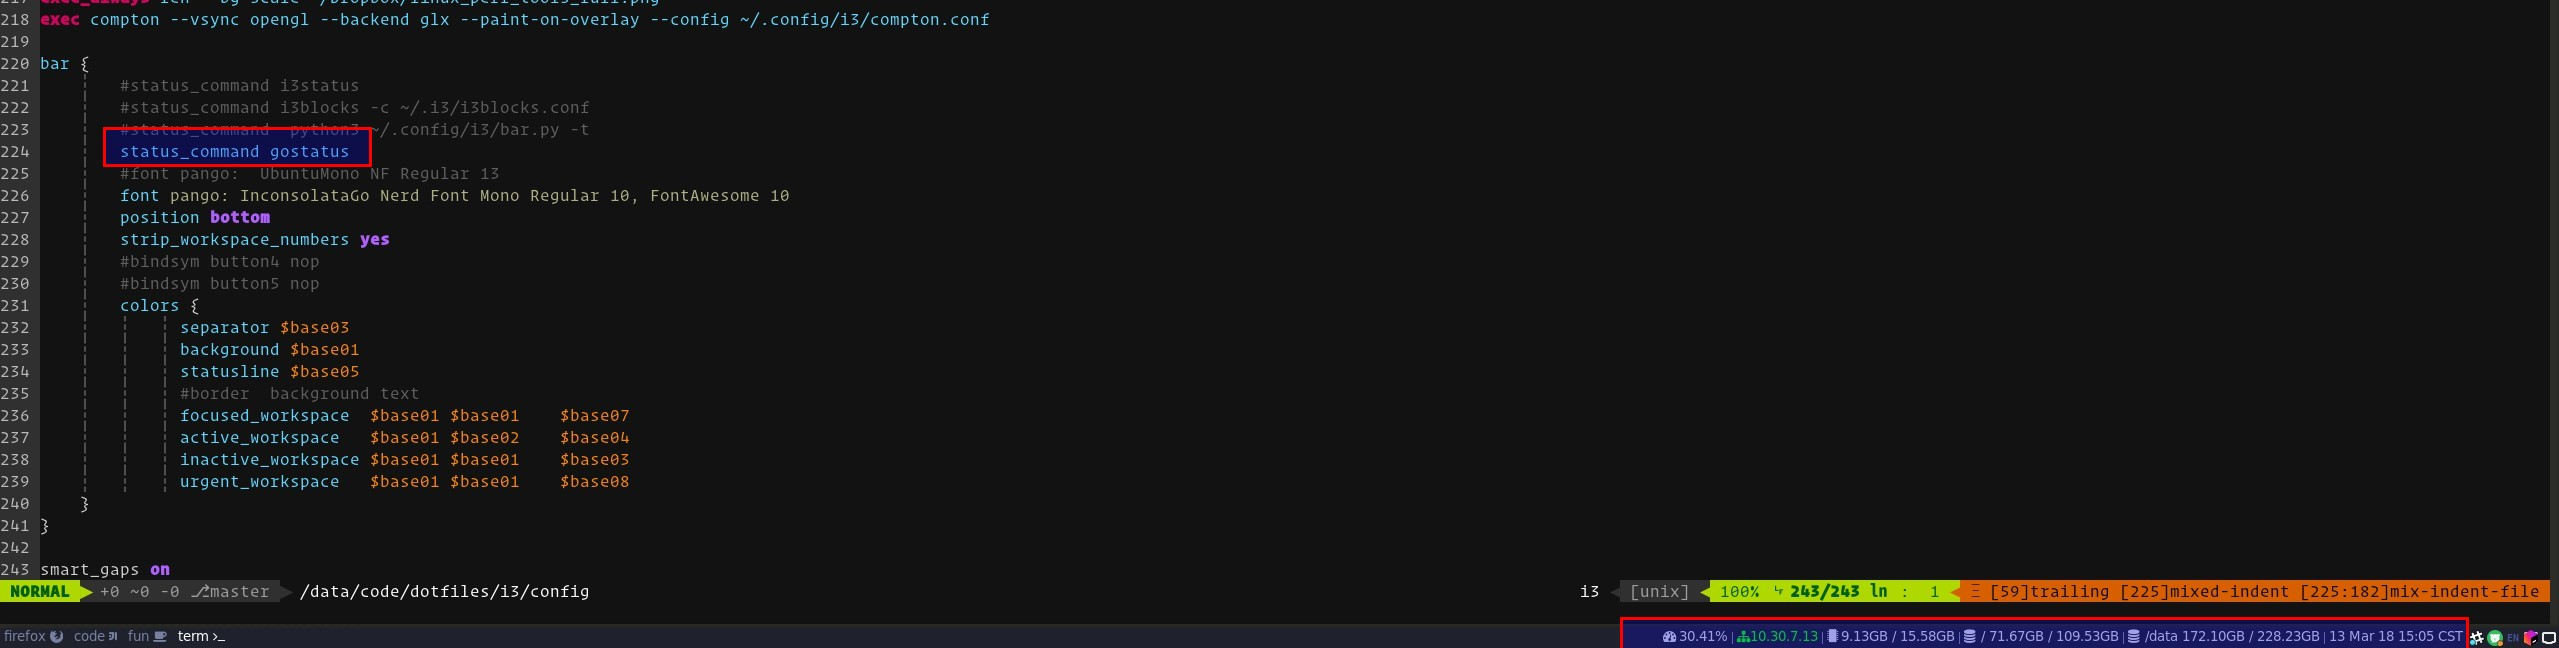
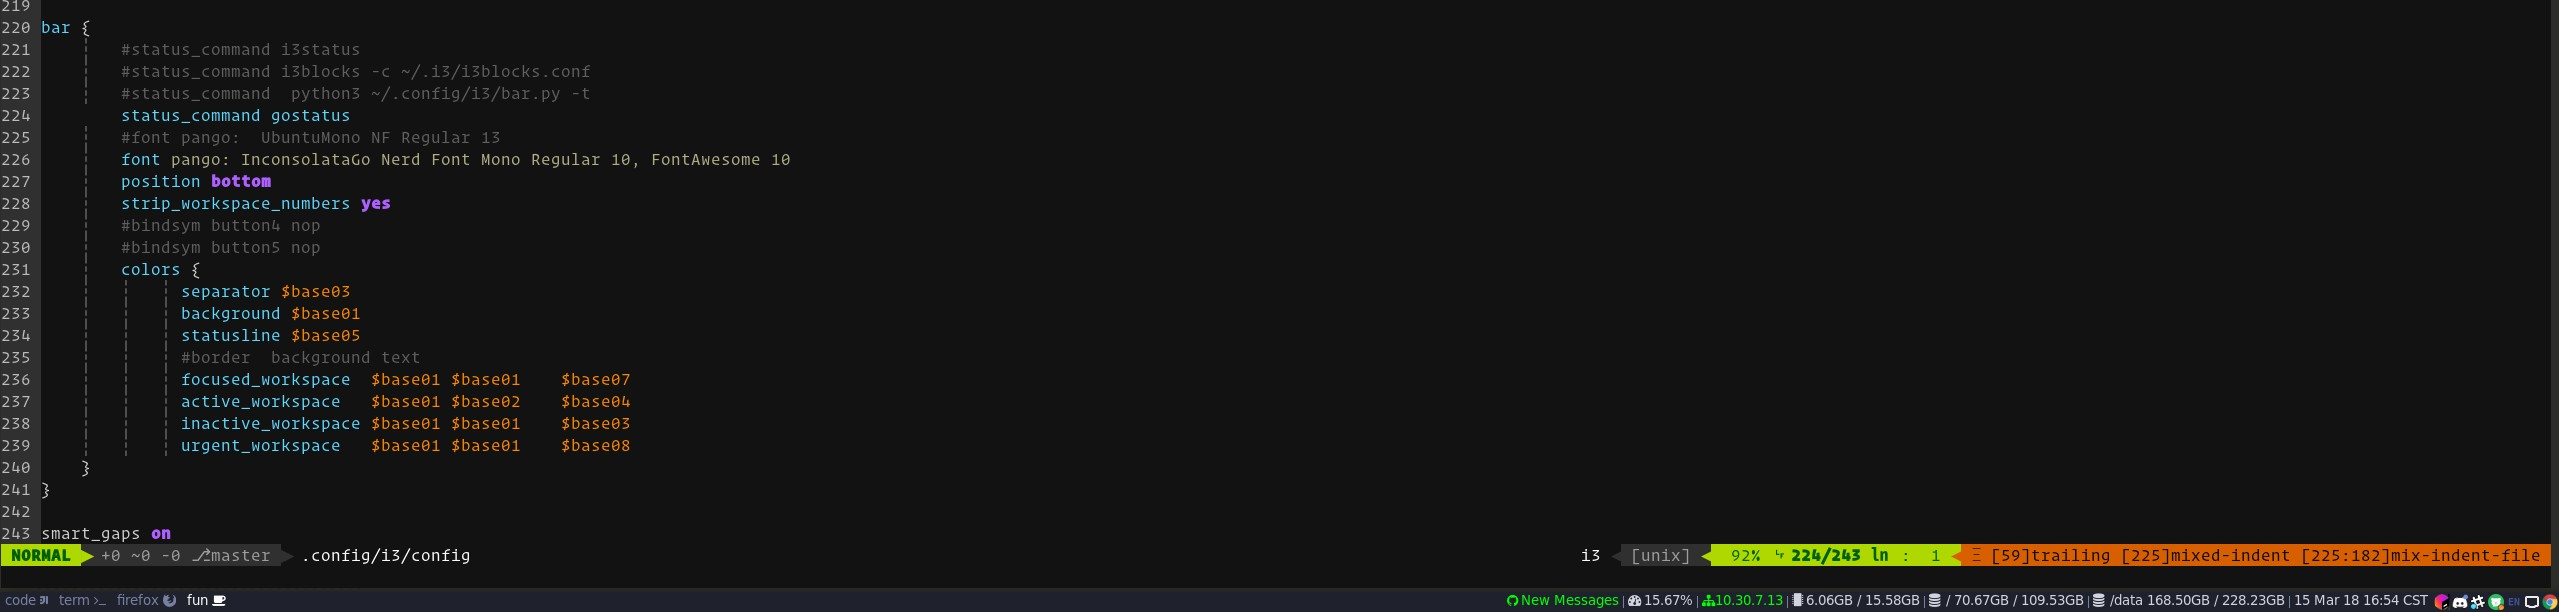
add github notifications

diff --git a/addon/github.go b/addon/github.go
@@ -1,0 +1,78 @@
+package addon
+
+import (
+	"encoding/base64"
+	"fmt"
+	"io/ioutil"
+	"net/http"
+	"os"
+	"regexp"
+)
+
+var client = &http.Client{}
+var githubNotificationsURL = "https://api.github.com/notifications"
+var gitAuthRegex = `https\://([a-zA-Z0-9]+)\:x\-oauth\-basic@github\.com`
+
+// ReadGithubToken reads github personal access token from ~/.git-credentianls
+// https://git-scm.com/docs/git-credential-store#_storage_format
+func ReadGithubToken() string {
+	bs, err := ioutil.ReadFile(fmt.Sprintf("%s/.git-credentials", os.Getenv("HOME")))
+	if err != nil {
+		panic(err)
+	}
+
+	re, err := regexp.Compile(gitAuthRegex)
+	if err != nil {
+		panic(err)
+	}
+	result := re.FindStringSubmatch(string(bs))
+	if len(result) == 0 {
+		return ""
+	}
+	return result[1]
+}
+
+func basicAuth(username, password string) string {
+	auth := username + ":" + password
+	return base64.StdEncoding.EncodeToString([]byte(auth))
+}
+
+func GotNewNotifications(username string) bool {
+	token := ReadGithubToken()
+	if token == "" {
+		return false
+	}
+
+	request, err := http.NewRequest("GET", githubNotificationsURL, nil)
+	if err != nil {
+		panic(err)
+	}
+	request.Header.Add("Authorization", "Basic "+basicAuth(username, token))
+	response, err := client.Do(request)
+	if err != nil {
+		panic(err)
+	}
+
+	bs, err := ioutil.ReadAll(response.Body)
+	if err != nil {
+		panic(err)
+	}
+
+	// TODO this is way too primitive now.
+	return string(bs) != "[]"
+}
+
+func NewGithubNotificationsAddon(username string) *Addon {
+	return &Addon{
+		UpdateIntervalMs: 1000 * 30,
+		UpdateFn: func(a *Addon) {
+			var defaultBlock = &Block{FullText: ""}
+			hasNew := GotNewNotifications(username)
+			if hasNew {
+				defaultBlock.FullText = "\uf09b  New Messages"
+				defaultBlock.Color = "#00ff00"
+			}
+			a.LastData = defaultBlock
+		},
+	}
+}

diff --git a/main.go b/main.go
@@ -8,6 +8,8 @@ import (
 // TODO read addons from config file.
 func main() {
 	statusBar := bar.NewGoStatusBar()
+
+	statusBar.Add(addon.NewGithubNotificationsAddon("lsgrep"))
 	statusBar.Add(addon.NewCPUAddon())
 
 	// pass network interface name
@@ -18,6 +20,5 @@ func main() {
 
 	statusBar.Add(addon.NewDiskAddon("/data"))
 	statusBar.Add(addon.NewTimeAddon())
-
 	statusBar.Run()
 }
